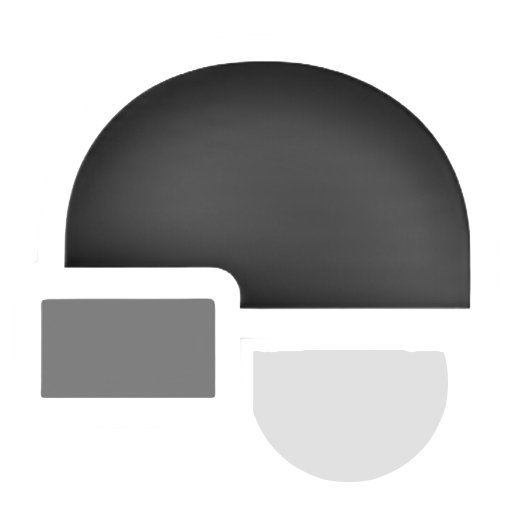
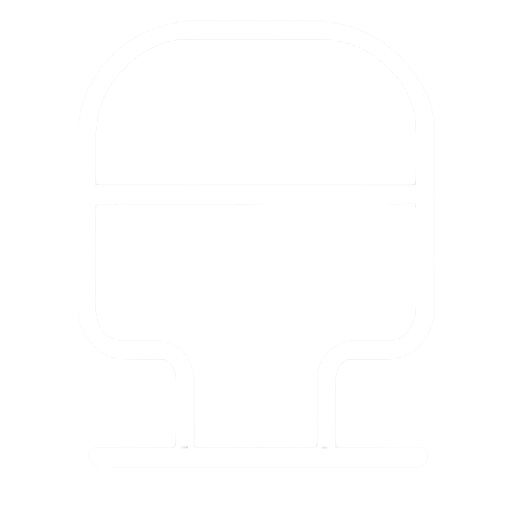
ui update

diff --git a/widgets/trayicon.py b/widgets/trayicon.py
@@ -21,7 +21,7 @@ def run(win):
     # print(os.path.join(basedir_icons, "icon.png"))
     # app.setQuitOnLastWindowClosed(False)
     # Create the icon
-    icon = QIcon(os.path.join(basedir_icons, "icon.png"))
+    icon = QIcon(os.path.join(basedir_icons, "icon-mono.png"))
 
     # Create the tray
     tray = QSystemTrayIcon(icon, win)

diff --git a/widgets/main_window.py b/widgets/main_window.py
@@ -19,7 +19,7 @@ class MainWindow(QMainWindow):
     def __init__(self):
         super().__init__()
         self.json_handler = JsonHandler()
-        self.setWindowTitle("Pons AI Model Manager")
+        self.setWindowTitle("AI Model Manager")
         self.setWindowIcon(QIcon("icons/icon.png"))
 
         central_widget = QWidget()
